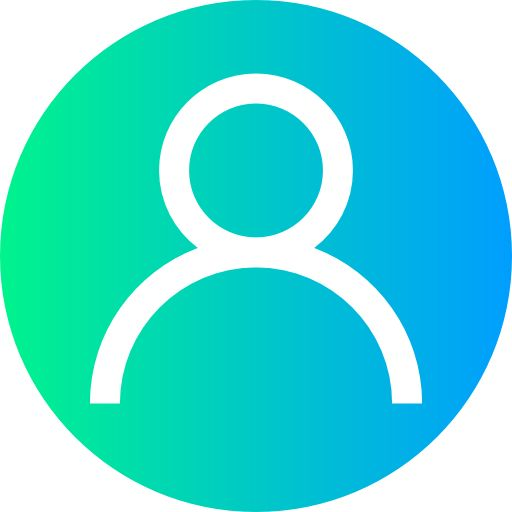
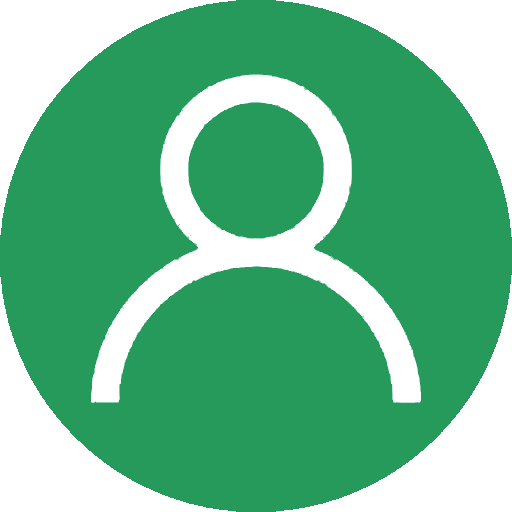
NavigationBar USER photo

diff --git a/frontend/public/index.html b/frontend/public/index.html
@@ -10,34 +10,11 @@
       content="Web site created using create-react-app"
     />
     <link rel="apple-touch-icon" href="%PUBLIC_URL%/logo192.png" />
-    <!--
-      manifest.json provides metadata used when your web app is installed on a
-      user's mobile device or desktop. See https://developers.google.com/web/fundamentals/web-app-manifest/
-    -->
     <link rel="manifest" href="%PUBLIC_URL%/manifest.json" />
-    <!--
-      Notice the use of %PUBLIC_URL% in the tags above.
-      It will be replaced with the URL of the `public` folder during the build.
-      Only files inside the `public` folder can be referenced from the HTML.
-
-      Unlike "/favicon.ico" or "favicon.ico", "%PUBLIC_URL%/favicon.ico" will
-      work correctly both with client-side routing and a non-root public URL.
-      Learn how to configure a non-root public URL by running `npm run build`.
-    -->
     <title>Putumayo Stay</title>
   </head>
   <body>
     <noscript>You need to enable JavaScript to run this app.</noscript>
     <div id="root"></div>
-    <!--
-      This HTML file is a template.
-      If you open it directly in the browser, you will see an empty page.
-
-      You can add webfonts, meta tags, or analytics to this file.
-      The build step will place the bundled scripts into the <body> tag.
-
-      To begin the development, run `npm start` or `yarn start`.
-      To create a production bundle, use `npm run build` or `yarn build`.
-    -->
   </body>
 </html>

diff --git a/frontend/src/components/NavigationBar/NavigationBar.css b/frontend/src/components/NavigationBar/NavigationBar.css
@@ -47,3 +47,49 @@
     color: var(--ps-color-green5);
     background: rgba(255, 255, 255, 0.1);
 }
+
+.navigation-bar-user {
+    display: flex;
+    align-items: center;
+    justify-content: center;
+    padding: 3px;
+    border-radius: 50%;
+    transition: all 0.3s ease;
+    position: relative;
+}
+
+.navigation-bar-user:hover {
+    transform: scale(1.1);
+}
+
+.navigation-bar-user::after {
+    content: '';
+    position: absolute;
+    top: -3px;
+    left: -3px;
+    right: -3px;
+    bottom: -3px;
+    border-radius: 50%;
+    background: linear-gradient(135deg, var(--ps-color-green5), var(--ps-color-green3));
+    z-index: -1;
+    opacity: 0;
+    transition: opacity 0.3s ease;
+}
+
+.navigation-bar-user:hover::after {
+    opacity: 1;
+}
+
+.navigation-bar-user-img {
+    width: 45px;
+    height: 45px;
+    object-fit: cover;
+    border-radius: 50%;
+    border: 3px solid var(--ps-color-gs5);
+    transition: all 0.3s ease;
+    box-shadow: 0 3px 10px rgba(0, 0, 0, 0.2);
+}
+
+.navigation-bar-user-img:hover {
+    border-color: var(--ps-color-gs5);
+}

diff --git a/frontend/src/components/NavigationBar/NavigationBar.jsx b/frontend/src/components/NavigationBar/NavigationBar.jsx
@@ -4,6 +4,7 @@ import "./NavigationBar.css";
 import companyLogo from "../../assets/larger-light-logo.png";
 import axios from "axios";
 import Swal from "sweetalert2";
+import defaultPhoto from "../../assets/default-user-photo.png"
 function NavigationBar() {
     //RECUPERAR Y VALIDAR SI EL USUARIO EXISTE EN EL LOCALSTORAGE
   const [user, setUser] = useState();
@@ -65,7 +66,10 @@ function NavigationBar() {
                     <Link className="navigation-bar-link" to="/reviews">Reseñas</Link>
                 </div>
                 <div className="navigation-bar-link-container">
-                    <Link className="navigation-bar-link" to="/dashboard">Cuenta</Link>
+                    <Link className="navigation-bar-user" to="/dashboard">
+                    {user && user.foto ? <img className="navigation-bar-user-img" src={user.foto}></img>:
+                    <img className="navigation-bar-user-img" src={defaultPhoto}></img>}
+                    </Link>
                 </div>
             </div>
         </section>

diff --git a/frontend/src/components/RoomCard/RoomCard.css b/frontend/src/components/RoomCard/RoomCard.css
@@ -6,7 +6,7 @@
     display: flex;
     flex-direction: column;
     overflow: hidden;
-    background: var(--ps-color-gs5);
+    background: whitesmoke;
     border-radius: 20px;
     box-shadow: 0 4px 20px rgba(0, 0, 0, 0.3);
     transition: transform 0.3s ease;

diff --git a/frontend/src/components/ReviewCard/ReviewCard.css b/frontend/src/components/ReviewCard/ReviewCard.css
@@ -7,7 +7,7 @@
     padding: 25px;
     margin: 5px auto;
     gap: 20px;
-    background: white;
+    background: whitesmoke;
     box-shadow: 0 5px 20px rgba(0, 0, 0, 0.2);
     transition: transform 0.3s ease, box-shadow 0.3s ease;
 }

diff --git a/frontend/src/layouts/DashboardLayout/DashboardLayout.jsx b/frontend/src/layouts/DashboardLayout/DashboardLayout.jsx
@@ -1,0 +1,10 @@
+import React from "react";
+import './DasboardLayout.css';
+
+function DasboardLayout(){
+    return (
+        <section className="dashboard-layout">
+            
+        </section>
+    )
+}

diff --git a/frontend/src/components/DashboardMenu/DashboardMenu.css b/frontend/src/components/DashboardMenu/DashboardMenu.css
@@ -30,6 +30,7 @@
 .dashboard-menu-option {
     display: flex;
     align-items: center;
+    color: whitesmoke;
     gap: 15px;
     padding: 1rem 1.5rem;
     margin: 0.5rem 0;
